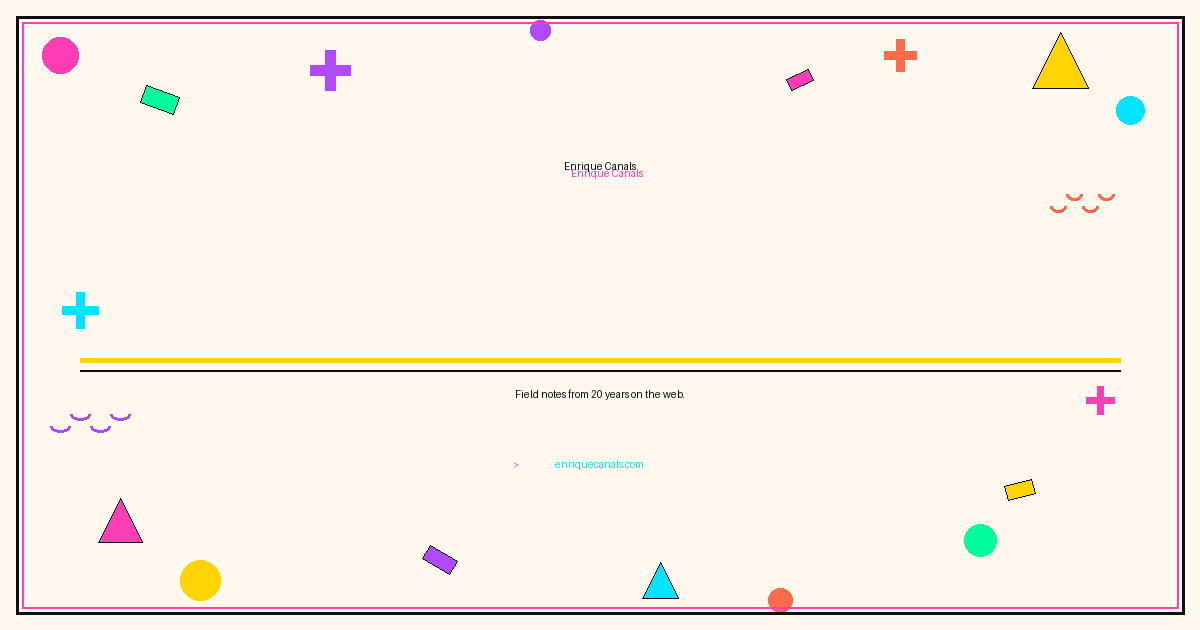
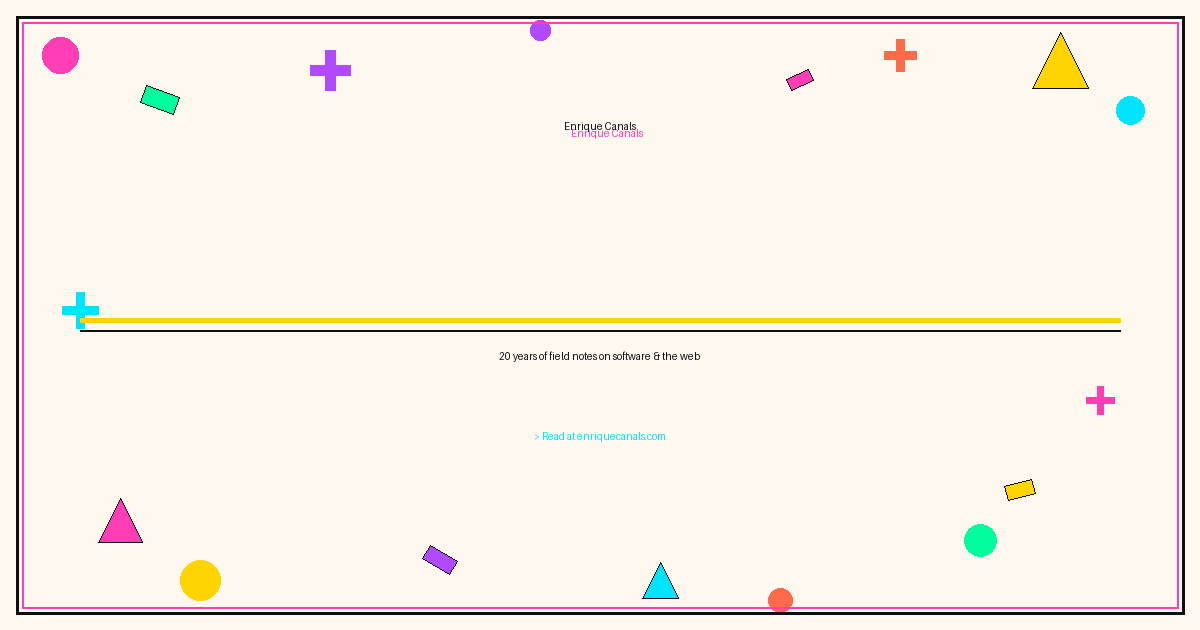
fix: og image headline/CTA + description truncation 280→155
- Regenerate og-default.png with clear headline, sub-headline and
  '> Read at enriquecanals.com' CTA — satisfies OG preview tester
  requirements for a readable headline and call-to-action in the image.
- Reduce sanitize_meta_description truncation from 280 to 155 chars,
  the safe cross-platform maximum for iMessage/LinkedIn/OG preview
  testers (Slack/X handle up to 200 but 155 avoids any truncation UI).

diff --git a/app/helpers/application_helper.rb b/app/helpers/application_helper.rb
@@ -139,8 +139,8 @@ module ApplicationHelper
   # blockquotes), inline HTML tags, collapse whitespace, and truncate.
   # Post excerpts and page bodies often contain raw markdown / inline
   # HTML that looks awful in a link preview ("__Aug 1__ ## Step 1: ..."
-  # → "Aug 1 Step 1: ..."). Truncates to 280 chars (Slack/Telegram/X all
-  # clip around this length).
+  # → "Aug 1 Step 1: ..."). Truncates to 155 chars (optimal for iMessage/OG preview tester,
+  # Slack, Telegram, X all handle up to 200 but 155 is the safe cross-platform max).
   def sanitize_meta_description(text)
     return nil if text.blank?
     # Decode entities first so any escaped HTML (e.g. `&lt;br/&gt;`
@@ -155,7 +155,7 @@ module ApplicationHelper
                  .gsub(/^[>\s]+/, "")                           # blockquote markers
                  .gsub(/[#*_~]+/, "")                           # heading/emphasis chars
                  .squish
-    cleaned.length > 280 ? cleaned[0, 277] + "..." : cleaned.presence
+    cleaned.length > 155 ? cleaned[0, 152] + "..." : cleaned.presence
   end
 
   # Resolve `path` to an absolute URL. Pass-through if already absolute.
